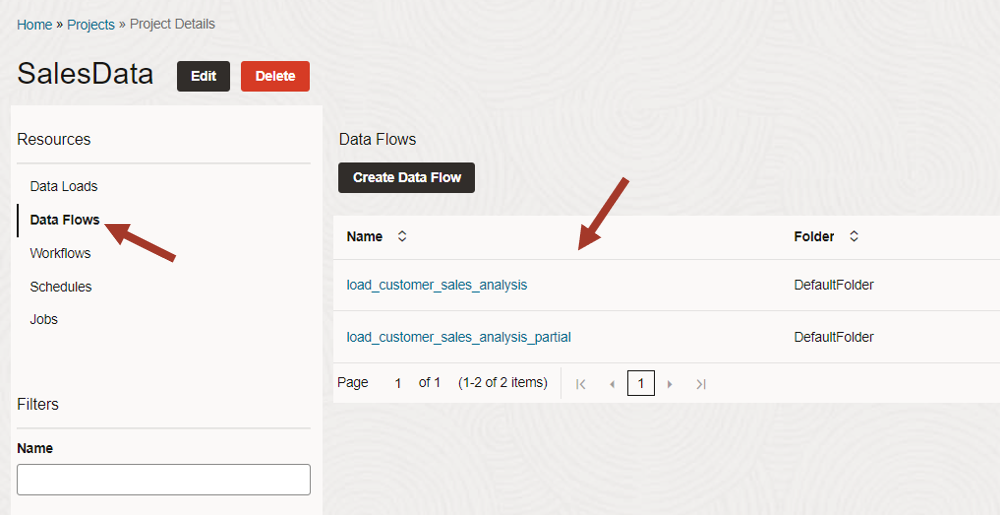
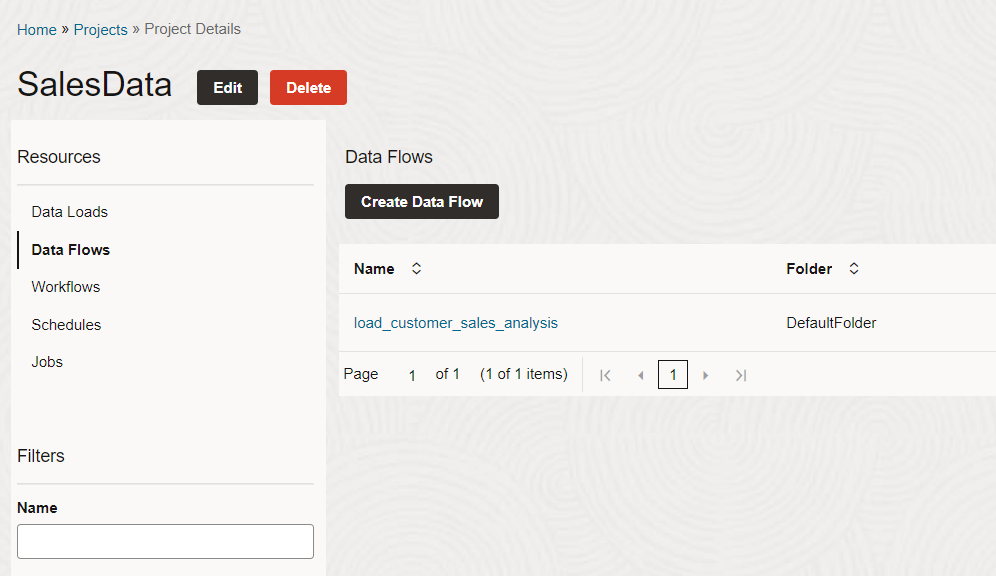
Changes to adapt to seed data as of April 2023
Could not get new seed data approved therefore added instructions to make use of April 2023 seed data.
Added new video links.

diff --git a/shared/workshops/adb-datastudio/overview/7-transform-data-short.md b/shared/workshops/adb-datastudio/overview/7-transform-data-short.md
@@ -7,10 +7,9 @@ This lab introduces the Data Transforms application built into the Oracle Autono
 
 Estimated Time: 20 minutes
 
-<!---
 Watch the video below for a quick walk-through of the lab.
-[Create a database user](videohub:1_g5x49pk2)
--->
+[Create a database user](videohub:1_t22mdnao)
+
 
 ### Objectives
 
@@ -102,7 +101,19 @@ a complete tool for complex data integration projects.
 
 Now we are ready to prepare the data.
 
-## Task 3: Create a data flow to load a new table to analyze customer sales
+## Task 3: Import table definitions
+
+1.  Before you work on any project you need to have table definitions for the tables you will be working on. You can import the definitions from your connections. You can also manually create the definitions if you are creating new tables. In our lab we are simply working on the tables already present in our Autonomous database. Some entities are already present in our pre-provisioned environment but not all. Click on **Data Entities** on the left side to look at available tables. Then click on **Import Data Entities** and select connection and schema QTEAM. Click **Start**.
+    
+    ![screenshot of the connection menu](images/image17_import_entity.png) 
+
+2.  Clock on the **OK** for the import job. This job will run into the background and after few minutes you can refresh the list. You should be able to **CUSTOMER\_SALES\_ANALYSIS** table in the list.
+    
+    ![screenshot of the connection menu](images/image17_import_entity_OK.png) 
+
+    ![screenshot of the connection menu](images/image17_view_entity.png) 
+
+## Task 4: Create a data flow to load a new table to analyze customer sales
 
 >**Note:** In this environment, a Data Transforms project and an empty data flow and a partially created data flow has been pre-created. You will update the existing data flow to perform the data transformations required.
 
@@ -110,15 +121,17 @@ Now we are ready to prepare the data.
 
     ![The Data Transforms menu with Projects selected](images/dtshort-projects.png)
 
-2.  Click the **SalesData** project. You will find the following data flows:
+2.  Click the **SalesData** project. You will find the following data flow:
    
-   1: **load\_customer\_sales\_analysis** : This is an empty data flow. Use this to go through all the transforms creation steps in this workshop.
-
-   2: **load\_customer\_sales\_analysis\_partial** : This is a partially created data flow for a short workshop. This data flow already has aggregation, customer value calculation by binning and age group lookup transforms in the flow. If you want, you can review these steps by clicking on the transforms. Use this data flow to add transforms steps starting from step 18 in this workshop. Directly skip to step 18 and continue the workshop.
+   **load\_customer\_sales\_analysis** : This is an empty data flow. Use this to go through all the transforms creation steps in this workshop.
 
     ![A list of data flows in the SalesData project](images/dtshort-dataflow_two.png)
 
+    >**Note:** In this environment, You also have a second project called **SalesData-Lazy**. This project has a partially created project. If you are running out of time then you can use it to study the data flow and complete it for saving time. You only need to connect the target table in this pre created data flow and configure it for execution. You can directly jump to step 19 to complete the flow.
+
 3.  A window will pop up to **Add a Schema**. Make sure the Schema is set to **QTEAM** and click OK. The schema will then appear under **Data Entities**. Expand the schema to show the tables.
+
+    ![Expand the schema to show the data entities](images/expand-schema-short_add.png)
 
     ![Expand the schema to show the data entities](images/expand-schema-short.png)
 
@@ -378,7 +391,7 @@ Now we are ready to prepare the data.
 For now, it is just a cursory data glance. We will need to use the **Data Analysis** 
 tool to analyze this data and find many interesting patterns.
 
-## Task 4: How to debug
+## Task 5: How to debug
 
 >**Note:** This is for advanced users. Skip if you don't have any errors and you want 
 to straight go to the next lab.
@@ -440,7 +453,7 @@ You may now **proceed to the next lab**.
 
 - Created By/Date - Jayant Mahto, Product Manager, Autonomous Database, January 2023
 - Contributors - Mike Matthews, Bud Endress, Ashish Jain, Marty Gubar, Rick Green
-- Last Updated By - Jayant Mahto, January 2023
+- Last Updated By - Jayant Mahto, August 2023
 
 
 Copyright (C)  Oracle Corporation.

diff --git a/shared/workshops/adb-datastudio/overview/3-demo-data-short.md b/shared/workshops/adb-datastudio/overview/3-demo-data-short.md
@@ -1,0 +1,124 @@
+# Load demo data for the Data Studio overview workshop
+
+
+## Introduction
+
+This lab will guide you through the steps to load demo data. 
+
+Estimated Time: 5 minutes
+
+<!---
+Watch the video below for a quick walk-through of the lab.
+[Create a database user](videohub:1_3tt5hsic)
+-->
+### Prerequisites
+
+- Created an Autonomous Data Warehouse instance
+- Created a new QTEAM user with appropriate roles
+
+## Task 1: Access the SQL worksheet
+
+SQL worksheet is linked from the **Database Actions** home page.
+
+In the previous lab, you created the database user **QTEAM**, and you should still be connected as user QTEAM. If you are already logged in as QTEAM, and on the Database Actions home page, you may go directly to Step 3. 
+
+1. There are two ways to reach the Database Actions home page, where you can find Data Studio and other useful tools for your database.
+
+    - Via the Autonomous Database console page
+    - Directly via URI
+
+    ### Access Database Actions via the Console
+
+    On the Autonomous Database Details page, click the **Database Actions** button:
+
+    ![Screenshot of the link to Database Actions from the database console page](images/image_db_console.png)
+
+    ### Access Database Actions directly via URI
+
+    When user QTEAM was created (in a previous step), a card appeared on the Database Users screen, similar to what is shown below. Notice the URI at the bottom of the card.
+
+    Click the **Open in new tab** icon to open a new tab. This URL may be used to access the Database Actions page of Autonomous Database Tools directly, without needing to use the OCI Console. You may want to bookmark this link so that you can easily launch the page at any time.
+
+    ![Link to open Database Actions from the user login page](images/image_user_login.png)
+
+2. Once you have launched the Database Actions page, sign in as user QTEAM, with the password assigned previously, and click **Sign In**.
+
+    ![Database Actions Log-in screen with the user name](images/image_user_uri.png)
+
+3. This will take you to the Autonomous Database **Database Actions** page (shown below), with links to the SQL worksheet on the top left. 
+    
+    Click on the **SQL** card.
+
+    ![The Database Actions home page](images/image_db_action.png)
+
+
+## Task 2: Execute the script
+
+1. Below is the script you need to execute to load demo data. Simply copy and paste this code into your SQL Worksheet.
+
+    *For copy/pasting, be sure to click the convenient __Copy__ button in the upper right corner of the following code snippet.*: 
+
+```
+<copy>
+DROP TABLE AGE_GROUP;
+
+CREATE TABLE AGE_GROUP 
+    ( 
+     MIN_AGE   NUMBER , 
+     MAX_AGE   NUMBER , 
+     AGE_GROUP VARCHAR2 (4000) 
+    ) 
+;
+
+insert into AGE_GROUP (MIN_AGE, MAX_AGE, AGE_GROUP) values (0,24,'Gen Z');
+insert into AGE_GROUP (MIN_AGE, MAX_AGE, AGE_GROUP) values (25,40,'Millennials');
+insert into AGE_GROUP (MIN_AGE, MAX_AGE, AGE_GROUP) values (41,56,'Gen X');
+insert into AGE_GROUP (MIN_AGE, MAX_AGE, AGE_GROUP) values (57,75,'Boomer');
+insert into AGE_GROUP (MIN_AGE, MAX_AGE, AGE_GROUP) values (76,200,'Silent Generation');
+
+DROP TABLE CUSTOMER_SALES_ANALYSIS;
+
+CREATE TABLE CUSTOMER_SALES_ANALYSIS
+(
+  MIN_AGE NUMBER(38),
+GENRE VARCHAR2(30 CHAR),
+AGE_GROUP VARCHAR2(4000 CHAR),
+GENDER VARCHAR2(20 CHAR),
+APP VARCHAR2(100 CHAR),
+DEVICE VARCHAR2(100 CHAR),
+OS VARCHAR2(100 CHAR),
+PAYMENT_METHOD VARCHAR2(100 CHAR),
+LIST_PRICE NUMBER(38),
+DISCOUNT_TYPE VARCHAR2(100 CHAR),
+DISCOUNT_PERCENT NUMBER(38),
+TOTAL_SALES NUMBER(38),
+MAX_AGE NUMBER(38),
+AGE NUMBER(38),
+EDUCATION VARCHAR2(40 CHAR),
+INCOME_LEVEL VARCHAR2(20 CHAR),
+MARITAL_STATUS VARCHAR2(8 CHAR),
+PET VARCHAR2(40 CHAR),
+CUST_VALUE NUMBER,
+CUST_SALES NUMBER(38)
+);
+</copy>
+```
+
+2. Paste the SQL statements in the worksheet. Click on the **Run Script** icon.
+
+    While the script is running, you will see the message "Executing code" at the bottom of the window. 
+    The message will change to "SQL executed by QTEAM" when in finishes. There should not be any errors.
+
+    ![Screenshot of SQL worksheet](images/image_sql_worksheet.png)
+
+You may now **proceed to the next lab**.
+
+
+## Acknowledgements
+
+- Created By/Date - Jayant Mahto, Product Manager, Autonomous Database, Aug 2023
+- Contributors - Mike Matthews, Bud Endress, Ashish Jain, Marty Gubar, Rick Green
+- Last Updated By - Jayant Mahto, August 2023
+
+
+Copyright (C)  Oracle Corporation.

diff --git a/shared/workshops/adb-datastudio/overview/3-demo-data.md b/shared/workshops/adb-datastudio/overview/3-demo-data.md
@@ -7,10 +7,9 @@ This lab will guide you through the steps to load demo data.
 
 Estimated Time: 5 minutes
 
-<!---
 Watch the video below for a quick walk-through of the lab.
-[Create a database user](videohub:1_3tt5hsic)
--->
+[Create a database user](videohub:1_v0l1ljqo)
+
 ### Prerequisites
 
 - Created an Autonomous Data Warehouse instance
@@ -232,7 +231,7 @@ You may now **proceed to the next lab**.
 
 - Created By/Date - Jayant Mahto, Product Manager, Autonomous Database, January 2023
 - Contributors - Mike Matthews, Bud Endress, Ashish Jain, Marty Gubar, Rick Green
-- Last Updated By - Jayant Mahto, January 2023
+- Last Updated By - Jayant Mahto, August 2023
 
 
 Copyright (C)  Oracle Corporation.

diff --git a/shared/workshops/adb-datastudio/overview/7-transform-data.md b/shared/workshops/adb-datastudio/overview/7-transform-data.md
@@ -7,10 +7,9 @@ This lab introduces the Data Transforms application built into the Oracle Autono
 
 Estimated Time: 25 minutes
 
-<!---
 Watch the video below for a quick walk-through of the lab.
-[Create a database user](videohub:1_g5x49pk2)
--->
+[Create a database user](videohub:1_t22mdnao)
+
 
 ### Objectives
 
@@ -701,7 +700,7 @@ You may now **proceed to the next lab**.
 
 - Created By/Date - Jayant Mahto, Product Manager, Autonomous Database, January 2023
 - Contributors - Mike Matthews, Bud Endress, Ashish Jain, Marty Gubar, Rick Green
-- Last Updated By - Jayant Mahto, January 2023
+- Last Updated By - Jayant Mahto, August 2023
 
 
 Copyright (C)  Oracle Corporation.

diff --git a/shared/workshops/adb-datastudio/overview/8-analyze-data.md b/shared/workshops/adb-datastudio/overview/8-analyze-data.md
@@ -7,10 +7,9 @@ This lab introduces the Data Analysis application built into the Oracle Autonomo
 
 Estimated Time: 20 minutes
 
-<!---
 Watch the video below for a quick walk-through of the lab.
-[Create a database user](videohub:1_kascwyxq)
--->
+[Create a database user](videohub:1_2hv2b15z)
+
 
 ### Objectives
 
@@ -327,7 +326,7 @@ You may now **proceed to the next lab**.
 
 - Created By/Date - Jayant Mahto, Product Manager, Autonomous Database, January 2023
 - Contributors - Mike Matthews, Bud Endress, Ashish Jain, Marty Gubar, Rick Green
-- Last Updated By - Jayant Mahto, January 2023
+- Last Updated By - Jayant Mahto, August 2023
 
 
 Copyright (C)  Oracle Corporation.

diff --git a/shared/workshops/adb-datastudio/overview/9-insight-in-data.md b/shared/workshops/adb-datastudio/overview/9-insight-in-data.md
@@ -7,10 +7,9 @@ This lab introduces Data Studio’s Data Insights tool built into the Oracle Aut
 
 Estimated Time: 15 minutes
 
-<!---
 Watch the video below for a quick walk-through of the lab.
-[Create a database user](videohub:1_6angdk6o)
--->
+[Create a database user](videohub:1_0o150ib2)
+
 
 ### Objectives
 
@@ -204,7 +203,7 @@ You may now **proceed to the next lab**.
 
 - Created By/Date - Jayant Mahto, Product Manager, Autonomous Database, January 2023
 - Contributors - Mike Matthews, Bud Endress, Ashish Jain, Marty Gubar, Rick Green
-- Last Updated By - Jayant Mahto, January 2023
+- Last Updated By - Jayant Mahto, August 2023
 
 
 Copyright (C)  Oracle Corporation.

diff --git a/shared/workshops/adb-datastudio/overview/6-load-data.md b/shared/workshops/adb-datastudio/overview/6-load-data.md
@@ -7,10 +7,9 @@ This lab introduces the Data Load tool of Data Studio built into the Oracle Auto
 
 Estimated Time: 5 minutes
 
-<!---
 Watch the video below for a quick walk-through of the lab.
-[Create a database user](videohub:1_o5j922rh)
--->
+[Create a database user](videohub:1_xnrr084w)
+
 
 ### Objectives
 
@@ -110,7 +109,7 @@ You may now **proceed to the next lab**.
 
 - Created By/Date - Jayant Mahto, Product Manager, Autonomous Database, January 2023
 - Contributors - Mike Matthews, Bud Endress, Ashish Jain, Marty Gubar, Rick Green
-- Last Updated By - Jayant Mahto, January 2023
+- Last Updated By - Jayant Mahto, August 2023
 
 
 Copyright (C)  Oracle Corporation.

diff --git a/shared/workshops/adb-datastudio/overview/5-browse-objects.md b/shared/workshops/adb-datastudio/overview/5-browse-objects.md
@@ -7,10 +7,9 @@ This lab introduces the Catalog application built into the Oracle Autonomous Dat
 
 Estimated Time: 5 minutes
 
-<!---
 Watch the video below for a quick walk-through of the lab.
-[Create a database user](videohub:1_mnozgu6c)
--->
+[Browse Catalog](videohub:1_s2t3xdyj)
+
 
 ### Objectives
 
@@ -129,7 +128,7 @@ You may now **proceed to the next lab**.
 
 - Created By/Date - Jayant Mahto, Product Manager, Autonomous Database, January 2023
 - Contributors - Mike Matthews, Bud Endress, Ashish Jain, Marty Gubar, Rick Green
-- Last Updated By - Jayant Mahto, January 2023
+- Last Updated By - Jayant Mahto, August 2023
 
 
 Copyright (C)  Oracle Corporation.

diff --git a/shared/workshops/adb-datastudio/overview/10-wrap-up.md b/shared/workshops/adb-datastudio/overview/10-wrap-up.md
@@ -69,7 +69,7 @@ DROP ANALYTIC VIEW CUSTOMER_SALES_ANALYSIS_AV;
 
 - Created By/Date - Jayant Mahto, Product Manager, Autonomous Database, January 2023
 - Contributors - Mike Matthews, Bud Endress, Ashish Jain, Marty Gubar, Rick Green
-- Last Updated By - Jayant Mahto, January 2023
+- Last Updated By - Jayant Mahto, August 2023
 
 
 Copyright (C)  Oracle Corporation.

diff --git a/shared/workshops/adb-datastudio/overview/10-wrap-up-short.md b/shared/workshops/adb-datastudio/overview/10-wrap-up-short.md
@@ -29,7 +29,7 @@ Now we are ready for our next Monday meeting.
 
 - Created By/Date - Jayant Mahto, Product Manager, Autonomous Database, January 2023
 - Contributors - Mike Matthews, Bud Endress, Ashish Jain, Marty Gubar, Rick Green
-- Last Updated By - Mike Matthews, March 2023
+- Last Updated By - Mike Matthews, August 2023
 
 
 Copyright (C)  Oracle Corporation.

diff --git a/shared/workshops/adb-datastudio/overview/7-transform-data-short_v1.md b/shared/workshops/adb-datastudio/overview/7-transform-data-short_v1.md
@@ -436,7 +436,7 @@ You may now **proceed to the next lab**.
 
 - Created By/Date - Jayant Mahto, Product Manager, Autonomous Database, January 2023
 - Contributors - Mike Matthews, Bud Endress, Ashish Jain, Marty Gubar, Rick Green
-- Last Updated By - Jayant Mahto, January 2023
+- Last Updated By - Jayant Mahto, August 2023
 
 
 Copyright (C)  Oracle Corporation.

diff --git a/shared/workshops/adb-datastudio/common/create-user.md b/shared/workshops/adb-datastudio/common/create-user.md
@@ -7,10 +7,9 @@ In this lab, you will create a database user.
 
 Estimated Time: 10 minutes
 
-<!---
 Watch the video below for a quick walk-through of the lab.
-[Create a database user](videohub:1_tfp0sgen)
--->
+[Create a database user](videohub:1_bqbg5sf2)
+
 
 ### Objectives
 
